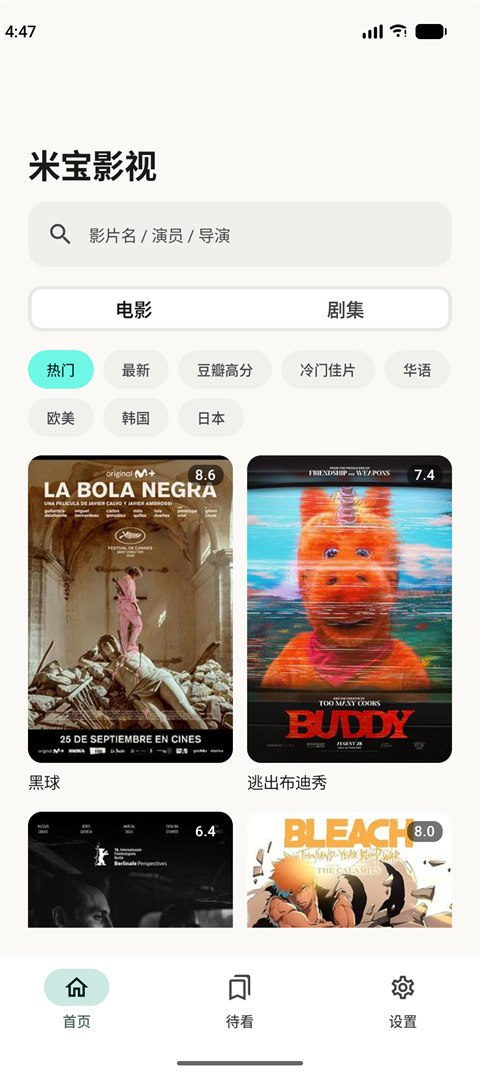
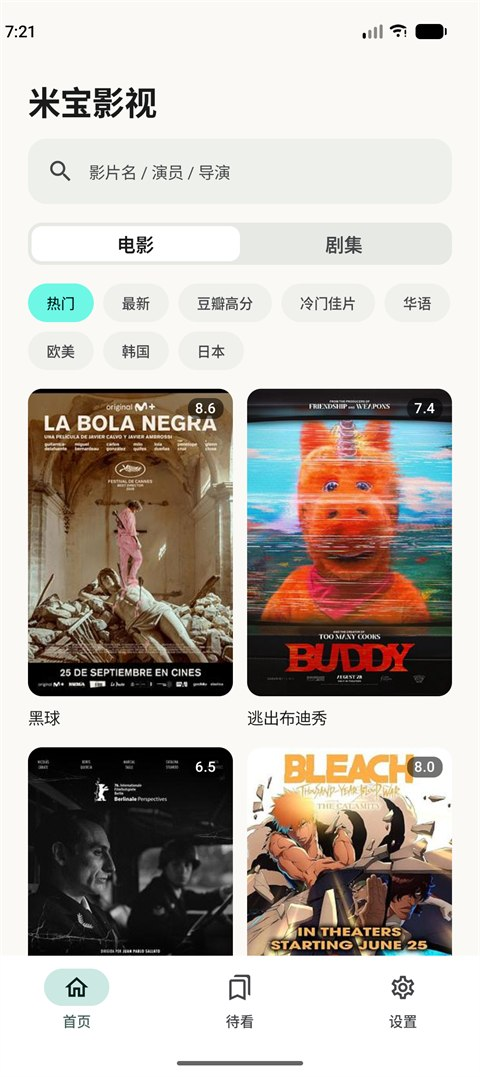
fix: M12 系统栏被重复避让导致顶部大留白 + 分段控件滑块几何错误
- 首页/待看/设置/详情各自的内层 Scaffold 设 contentWindowInsets = 0，
  外层 AppRoot 已处理状态栏与底部导航；标题 top 由 120dp 回到 66dp
- SegmentedToggle 选中块改为固定控件高度 36dp + 一格宽，
  与文字格共用同一套内缩几何，切换时是滑块移动而非白色擦除
- README 五张截图重拍（旧图仍带修复前的顶部留白）

diff --git a/app/src/main/java/com/ricebaby/video/ui/components/SegmentedToggle.kt b/app/src/main/java/com/ricebaby/video/ui/components/SegmentedToggle.kt
@@ -7,9 +7,11 @@ import androidx.compose.foundation.clickable
 import androidx.compose.foundation.layout.Box
 import androidx.compose.foundation.layout.BoxWithConstraints
 import androidx.compose.foundation.layout.Row
-import androidx.compose.foundation.layout.fillMaxWidth
+import androidx.compose.foundation.layout.fillMaxHeight
+import androidx.compose.foundation.layout.height
 import androidx.compose.foundation.layout.offset
 import androidx.compose.foundation.layout.padding
+import androidx.compose.foundation.layout.width
 import androidx.compose.foundation.shape.RoundedCornerShape
 import androidx.compose.material3.MaterialTheme
 import androidx.compose.material3.Text
@@ -18,10 +20,9 @@ import androidx.compose.runtime.getValue
 import androidx.compose.ui.Alignment
 import androidx.compose.ui.Modifier
 import androidx.compose.ui.draw.clip
-import androidx.compose.ui.graphics.Color
 import com.ricebaby.video.ui.theme.Dimens
 
-/** iOS 风格分段控件：选中块滑动切换，首页与待看共用同一套圆角与留白 */
+/** iOS 风格分段控件：选中块按格宽滑动，首页与待看共用同一套圆角与留白 */
 @Composable
 fun SegmentedToggle(
     options: List<String>,
@@ -31,10 +32,14 @@ fun SegmentedToggle(
 ) {
     BoxWithConstraints(
         modifier = modifier
+            // 高度必须固定：否则 Column 会把剩余全高传进来，滑块会撑满整屏
+            .height(Dimens.segmentHeight)
             .clip(RoundedCornerShape(Dimens.segmentCorner))
             .background(MaterialTheme.colorScheme.surfaceVariant),
     ) {
         val count = options.size.coerceAtLeast(1)
+        // 滑块与文字格必须用同一套几何：都基于内缩后的可用宽度均分
+        val slotWidth = (maxWidth - Dimens.segmentInset * 2) / count
         val slide by animateFloatAsState(
             targetValue = selectedIndex.toFloat(),
             animationSpec = tween(220),
@@ -42,20 +47,21 @@ fun SegmentedToggle(
         )
         Box(
             modifier = Modifier
-                .matchParentSize()
-                .offset(x = maxWidth / count * slide)
                 .padding(Dimens.segmentInset)
+                .offset(x = slotWidth * slide)
+                .fillMaxHeight()
+                .width(slotWidth)
                 .clip(RoundedCornerShape(Dimens.segmentItemCorner))
                 .background(MaterialTheme.colorScheme.surface),
         )
-        Row(modifier = Modifier.fillMaxWidth()) {
+        Row(modifier = Modifier.padding(Dimens.segmentInset)) {
             options.forEachIndexed { index, label ->
                 val selected = index == selectedIndex
                 Box(
                     modifier = Modifier
                         .weight(1f)
-                        .clickable { onSelect(index) }
-                        .padding(vertical = Dimens.sm),
+                        .fillMaxHeight()
+                        .clickable { onSelect(index) },
                     contentAlignment = Alignment.Center,
                 ) {
                     Text(

diff --git a/app/src/main/java/com/ricebaby/video/ui/home/HomeScreen.kt b/app/src/main/java/com/ricebaby/video/ui/home/HomeScreen.kt
@@ -10,6 +10,7 @@ import androidx.compose.foundation.layout.ExperimentalLayoutApi
 import androidx.compose.foundation.layout.FlowRow
 import androidx.compose.foundation.layout.PaddingValues
 import androidx.compose.foundation.layout.Row
+import androidx.compose.foundation.layout.WindowInsets
 import androidx.compose.foundation.layout.fillMaxSize
 import androidx.compose.foundation.layout.fillMaxWidth
 import androidx.compose.foundation.layout.padding
@@ -73,7 +74,11 @@ fun HomeScreen(
 
     BackHandler(enabled = searching) { searching = false }
 
-    Scaffold(snackbarHost = { SnackbarHost(snackbarHostState) }) { innerPadding ->
+    // 外层 AppRoot 的 Scaffold 已避让状态栏与底部导航；内层再算一次会顶出双倍留白
+    Scaffold(
+        snackbarHost = { SnackbarHost(snackbarHostState) },
+        contentWindowInsets = WindowInsets(0, 0, 0, 0),
+    ) { innerPadding ->
         Column(
             modifier = Modifier
                 .fillMaxSize()

diff --git a/app/src/main/java/com/ricebaby/video/ui/watchlist/WatchlistScreen.kt b/app/src/main/java/com/ricebaby/video/ui/watchlist/WatchlistScreen.kt
@@ -5,6 +5,7 @@ import androidx.compose.foundation.layout.Arrangement
 import androidx.compose.foundation.layout.Box
 import androidx.compose.foundation.layout.Column
 import androidx.compose.foundation.layout.Row
+import androidx.compose.foundation.layout.WindowInsets
 import androidx.compose.foundation.layout.fillMaxSize
 import androidx.compose.foundation.layout.fillMaxWidth
 import androidx.compose.foundation.layout.height
@@ -55,7 +56,8 @@ fun WatchlistScreen(
     val uiState by viewModel.uiState.collectAsStateWithLifecycle()
     var selectedTab by remember { mutableIntStateOf(0) }
 
-    Scaffold { innerPadding ->
+    // 外层 AppRoot 的 Scaffold 已避让系统栏，内层不能重复计算
+    Scaffold(contentWindowInsets = WindowInsets(0, 0, 0, 0)) { innerPadding ->
         Column(
             modifier = Modifier
                 .fillMaxSize()

diff --git a/app/src/main/java/com/ricebaby/video/ui/settings/SettingsScreen.kt b/app/src/main/java/com/ricebaby/video/ui/settings/SettingsScreen.kt
@@ -3,6 +3,7 @@ package com.ricebaby.video.ui.settings
 import androidx.compose.foundation.layout.Arrangement
 import androidx.compose.foundation.layout.Column
 import androidx.compose.foundation.layout.Row
+import androidx.compose.foundation.layout.WindowInsets
 import androidx.compose.foundation.layout.fillMaxSize
 import androidx.compose.foundation.layout.fillMaxWidth
 import androidx.compose.foundation.layout.padding
@@ -75,6 +76,8 @@ fun SettingsScreen(viewModel: SettingsViewModel = hiltViewModel()) {
 
     Scaffold(
         snackbarHost = { SnackbarHost(snackbarHostState) },
+        // 外层 AppRoot 的 Scaffold 已避让系统栏，内层不能重复计算
+        contentWindowInsets = WindowInsets(0, 0, 0, 0),
         floatingActionButton = {
             ExtendedFloatingActionButton(
                 onClick = { showAddDialog = true },

diff --git a/app/src/main/java/com/ricebaby/video/ui/detail/DetailScreen.kt b/app/src/main/java/com/ricebaby/video/ui/detail/DetailScreen.kt
@@ -8,6 +8,7 @@ import androidx.compose.foundation.layout.ExperimentalLayoutApi
 import androidx.compose.foundation.layout.FlowRow
 import androidx.compose.foundation.layout.Row
 import androidx.compose.foundation.layout.aspectRatio
+import androidx.compose.foundation.layout.WindowInsets
 import androidx.compose.foundation.layout.fillMaxSize
 import androidx.compose.foundation.layout.fillMaxWidth
 import androidx.compose.foundation.layout.padding
@@ -66,6 +67,8 @@ fun DetailScreen(
 
     Scaffold(
         snackbarHost = { SnackbarHost(snackbarHostState) },
+        // 外层 AppRoot 的 Scaffold 已避让系统栏，内层不能重复计算
+        contentWindowInsets = WindowInsets(0, 0, 0, 0),
         topBar = {
             TopAppBar(
                 title = { Text(uiState.title, maxLines = 1, overflow = TextOverflow.Ellipsis) },

diff --git a/app/src/main/java/com/ricebaby/video/ui/theme/Dimens.kt b/app/src/main/java/com/ricebaby/video/ui/theme/Dimens.kt
@@ -24,10 +24,11 @@ object Dimens {
     val posterCorner = 12.dp
     val pillCorner = 999.dp
 
-    /** 分段控件：外壳圆角 = 内衬 3dp + 选中块圆角 9dp */
+    /** 分段控件：外壳圆角 = 内衬 3dp + 选中块圆角 9dp；高度固定，滑块才能可靠地填满 */
     val segmentCorner = 12.dp
     val segmentInset = 3.dp
     val segmentItemCorner = 9.dp
+    val segmentHeight = 36.dp
 
     /** 海报网格最小列宽，三屏共用同一密度 */
     val gridMin = 116.dp

diff --git a/docs/superpowers/specs/2026-10-26-ricebabyvideo-android-design.md b/docs/superpowers/specs/2026-10-26-ricebabyvideo-android-design.md
@@ -192,3 +192,7 @@ RicebabyVideo（`18haventgirl/Ricebaby_Video`）是基于 Next.js 16 + React 19 
   - **线路/选集呈现统一**：抽出 `ui/components/ChipRows.kt`（`LineChipRow` = FlowRow + M3 FilterChip 带选中态，`EpisodeChipRow` = FlowRow + 圆角药丸），详情页与播放页同源；播放页原来是单行 LazyRow 自定义 chip（只能看到前几条、无勾选态），现与详情页完全一致并改为纵向可滚动。实测两页线路标签左边缘同为 24dp、首个 chip 同为 40dp、换行位置一致
   - **逐页边界复核**：详情页 loading 竖衬 24.dp→`Dimens.xl`、设置页 32.dp→`Dimens.xxl`、搜索筛选药丸竖衬 6.dp→`Dimens.sm`（与新的选集 chip 同高）、海报卡标题上间距 6.dp→`Dimens.sm`、底部角标圆角 8.dp→`Dimens.sm`；特性代码裸 dp 从 29 降到 22，剩余均为图标/海报/描边等组件自身几何
   - README 播放页截图重拍（旧图仍是单行 chip，已换成换行标签版），版本号对齐 0.11.0-M11
+- **2026-11-04 M12 完成**（tag `v0.12.0-M12`，35 单测绿）：修用户指出的两处"看着不对"
+  - **顶部大留白**：根因是系统栏被避让了两次 —— 外层 AppRoot 的 Scaffold 已用 innerPadding 处理状态栏与底部导航，首页/待看/设置/详情四个页面又各自套了一层 Scaffold，M3 的 Scaffold 只 pad 不 consume，于是状态栏 54dp 被叠加成 108dp。实测「米宝影视」标题 top 由 120dp 降到 66dp（54 状态栏 + 12 自身留白），待看与设置同样从 120dp → 66dp。修法：四处内层 Scaffold 统一 `contentWindowInsets = WindowInsets(0,0,0,0)`
+  - **分段控件白色块**：抽组件时把选中块写成 `matchParentSize()`（宽度=整个控件，靠父级 clip 裁切），切换时表现为"白色从一侧擦过来"而不是一格在滑动；改成固定控件高度 `Dimens.segmentHeight = 36dp` + 滑块宽度 = 内缩后均分的一格，并与文字格共用同一几何。中途我把滑块写成 `fillMaxHeight()`，Column 把剩余全高传进来导致白色拉到屏幕底部，已由截图抓出并修正
+  - README 首页/搜索/详情/待看/设置五张截图重拍（旧图仍带修复前的顶部大留白）

diff --git a/README.md b/README.md
@@ -36,7 +36,7 @@ JAVA_HOME=<JBR 路径> ./gradlew :app:assembleDebug
 ## 版本与分支
 
 - `main`：稳定发布；`dev`：日常集成；`feature/<里程碑>`：任务分支，完成后 `--ff-only` 合入
-- 里程碑 tag：`v0.0.1-M0` 脚手架 → `v0.1.0-M1` 搜索 → `v0.2.0-M2` 详情 → `v0.3.0-M3` 播放器桥 → `v0.4.0-M4` 首页 → `v0.5.0-M5` IPTV → `v0.6.0-M6` 打磨 → `v0.7.0-M7` UI 重做 → `v0.8.0-M8` 原生播放器 → `v0.9.0-M9` 搜索并入首页（同时移除 IPTV）→ `v0.10.0-M10` 边界与留白统一 → `v0.11.0-M11` 播放页交互收敛
+- 里程碑 tag：`v0.0.1-M0` 脚手架 → `v0.1.0-M1` 搜索 → `v0.2.0-M2` 详情 → `v0.3.0-M3` 播放器桥 → `v0.4.0-M4` 首页 → `v0.5.0-M5` IPTV → `v0.6.0-M6` 打磨 → `v0.7.0-M7` UI 重做 → `v0.8.0-M8` 原生播放器 → `v0.9.0-M9` 搜索并入首页（同时移除 IPTV）→ `v0.10.0-M10` 边界与留白统一 → `v0.11.0-M11` 播放页交互收敛 → `v0.12.0-M12` 系统栏重复避让修复
 - 设计与计划文档见 `docs/superpowers/`
 
 ## 已知限制
